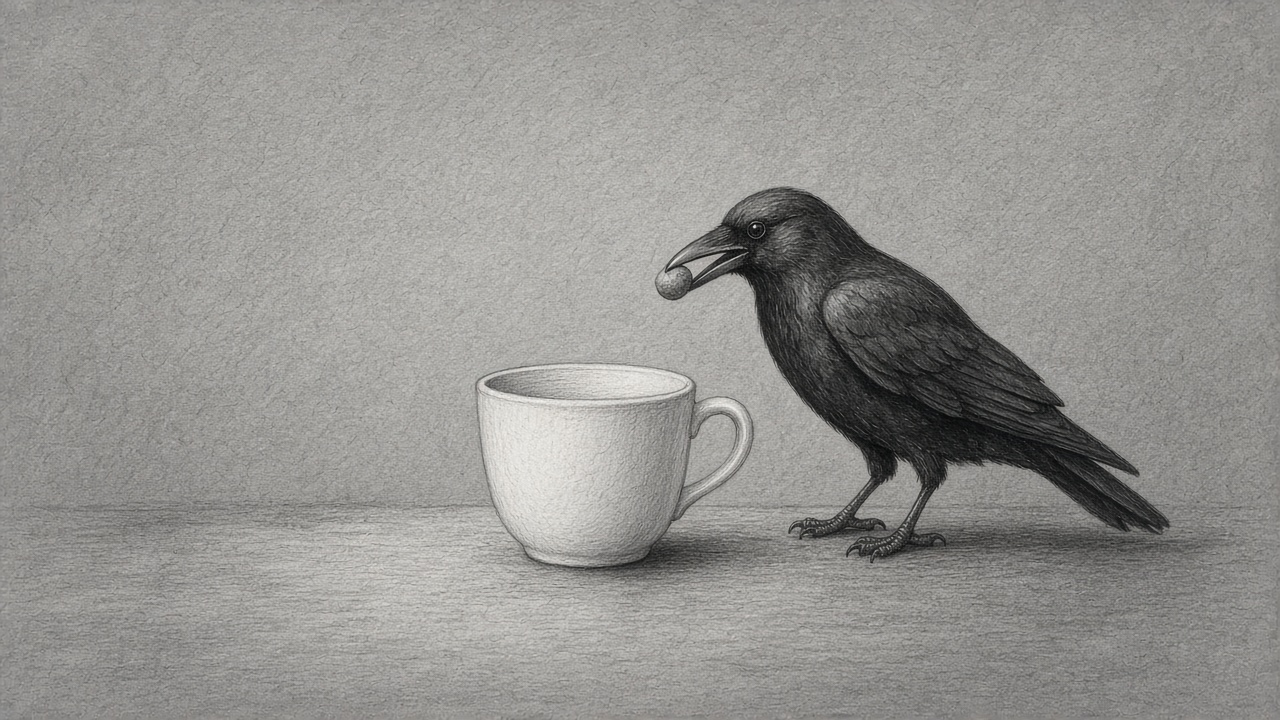
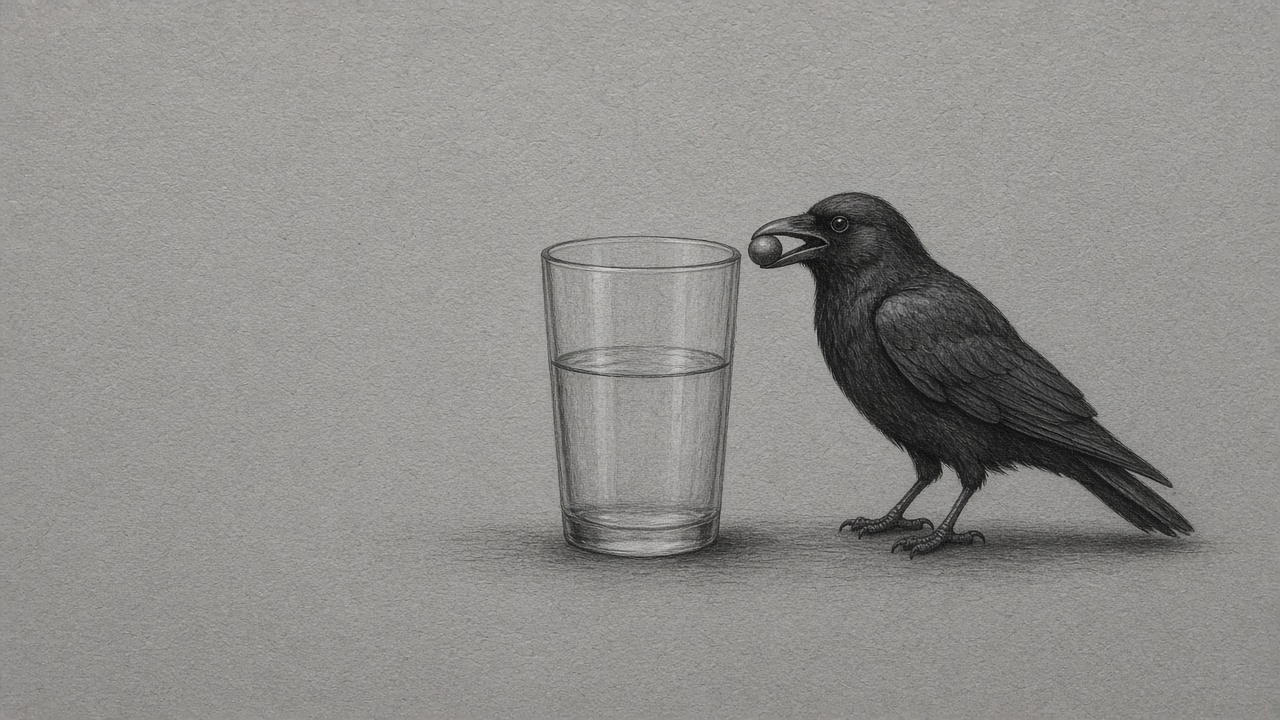
Redraw crow poster as gray sketch with glass and stone.

diff --git a/index.html b/index.html
@@ -3529,7 +3529,7 @@
       function heroArtUrl(t) {
         if (!t) return "";
         const base = t.heroArt || "./covers/hero/" + t.id + ".png";
-        return base + (base.indexOf("?") >= 0 ? "&" : "?") + "v=4";
+        return base + (base.indexOf("?") >= 0 ? "&" : "?") + "v=5";
       }
 
       function stopHomeTrioRotate() {
